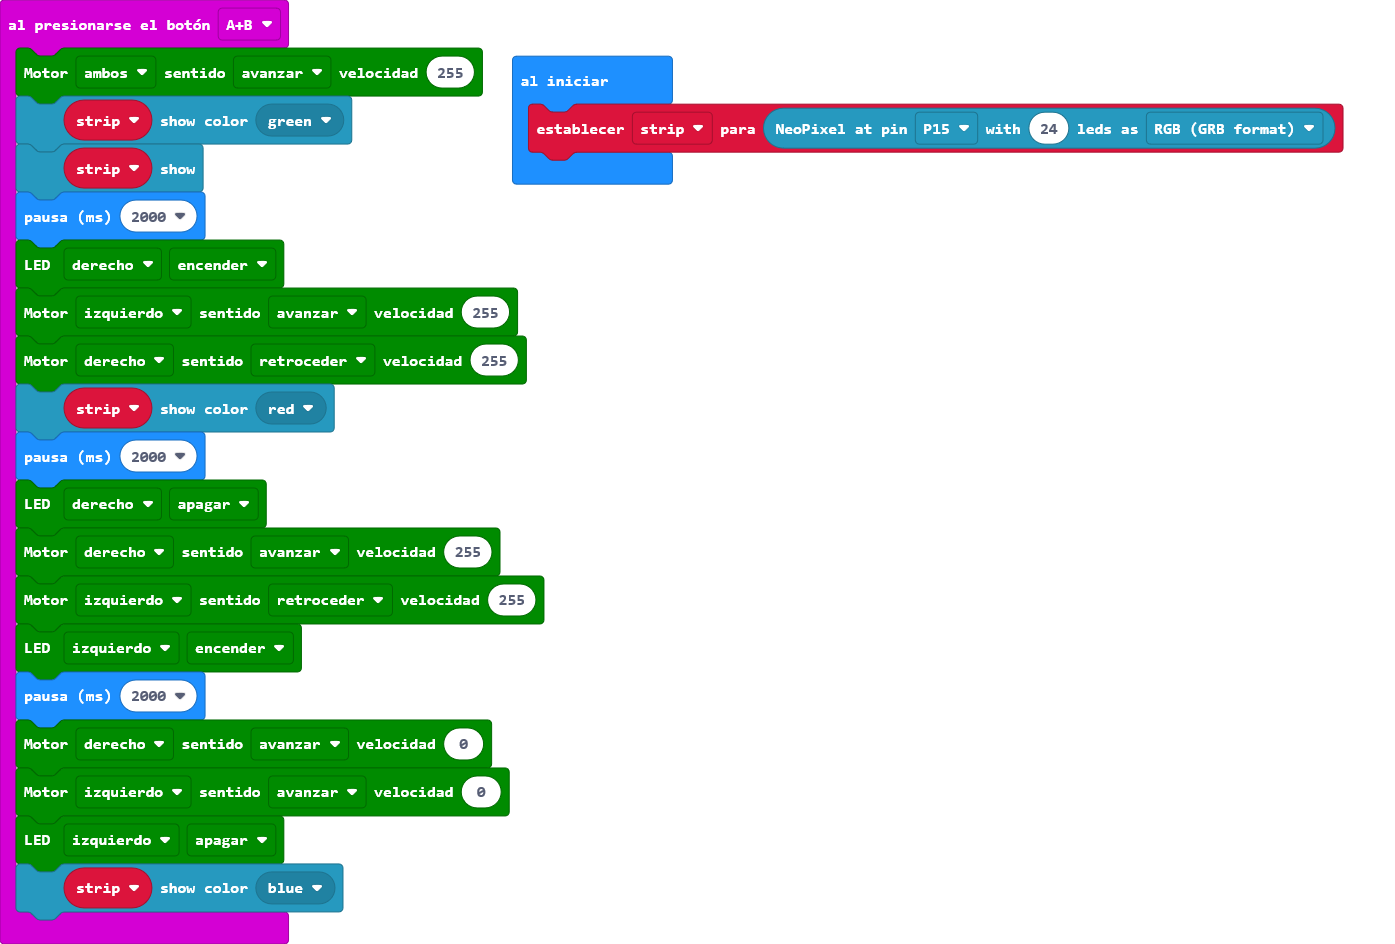
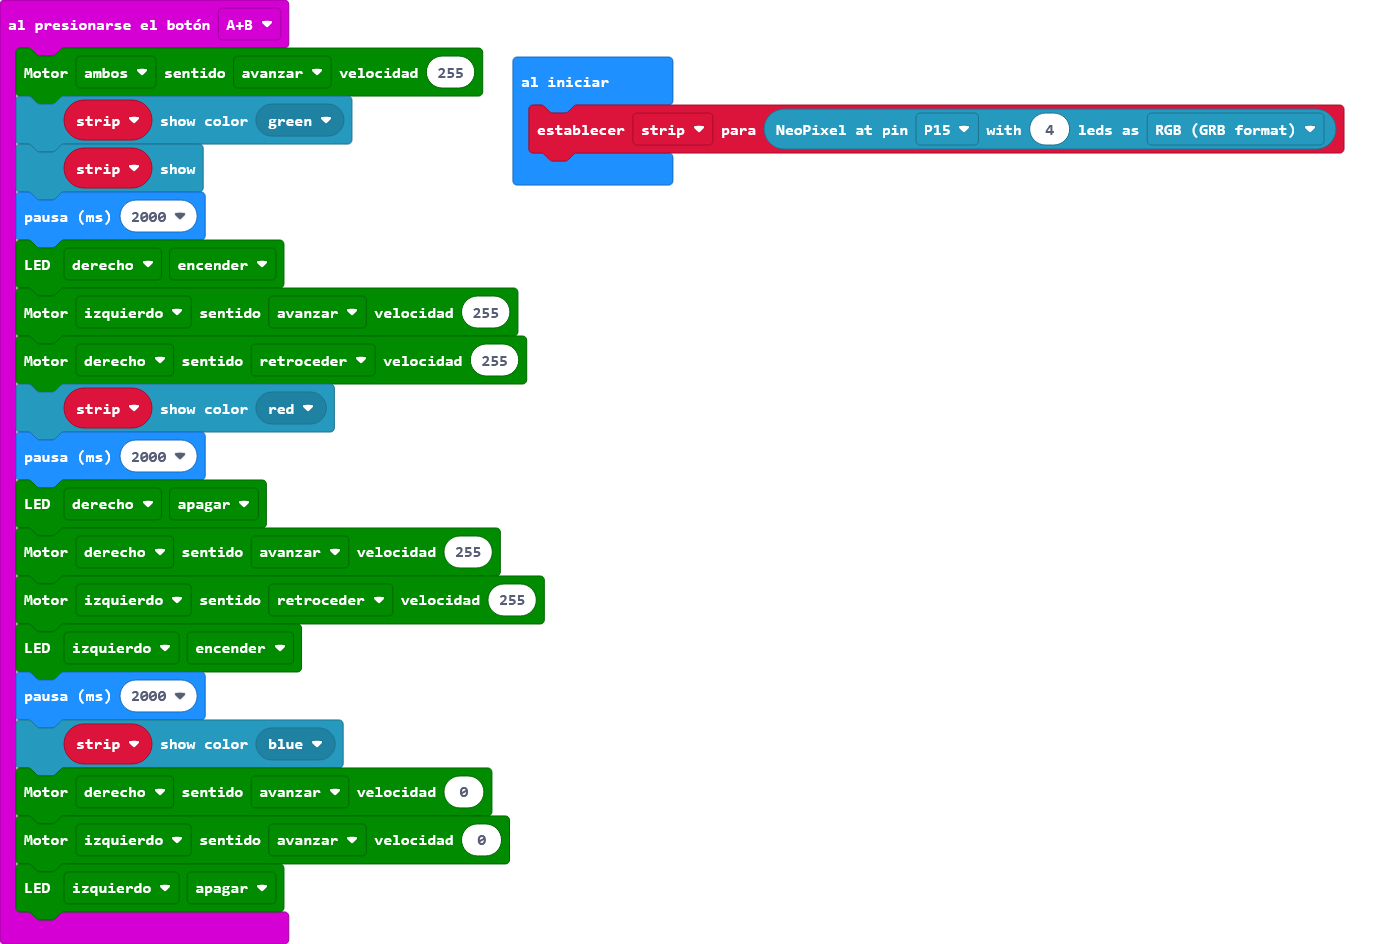
Actualizar main.blocks, main.ts

Changed region(s): [[0.0, 0.7373, 0.3699, 0.9831], [0.3699, 0.0307, 0.9556, 0.1843], [0.3082, 0.6144, 0.3391, 0.6451]]

diff --git a/main.ts b/main.ts
@@ -13,10 +13,10 @@ input.onButtonPressed(Button.AB, function () {
     maqueen.motorRun(maqueen.Motors.M1, maqueen.Dir.CCW, 255)
     maqueen.writeLED(maqueen.LED.LEDRight, maqueen.LEDswitch.turnOn)
     basic.pause(2000)
+    strip.showColor(neopixel.colors(NeoPixelColors.Blue))
     maqueen.motorRun(maqueen.Motors.M2, maqueen.Dir.CW, 0)
     maqueen.motorRun(maqueen.Motors.M1, maqueen.Dir.CW, 0)
     maqueen.writeLED(maqueen.LED.LEDRight, maqueen.LEDswitch.turnOff)
-    strip.showColor(neopixel.colors(NeoPixelColors.Blue))
 })
 let strip: neopixel.Strip = null
-strip = neopixel.create(DigitalPin.P15, 24, NeoPixelMode.RGB)
+strip = neopixel.create(DigitalPin.P15, 4, NeoPixelMode.RGB)
